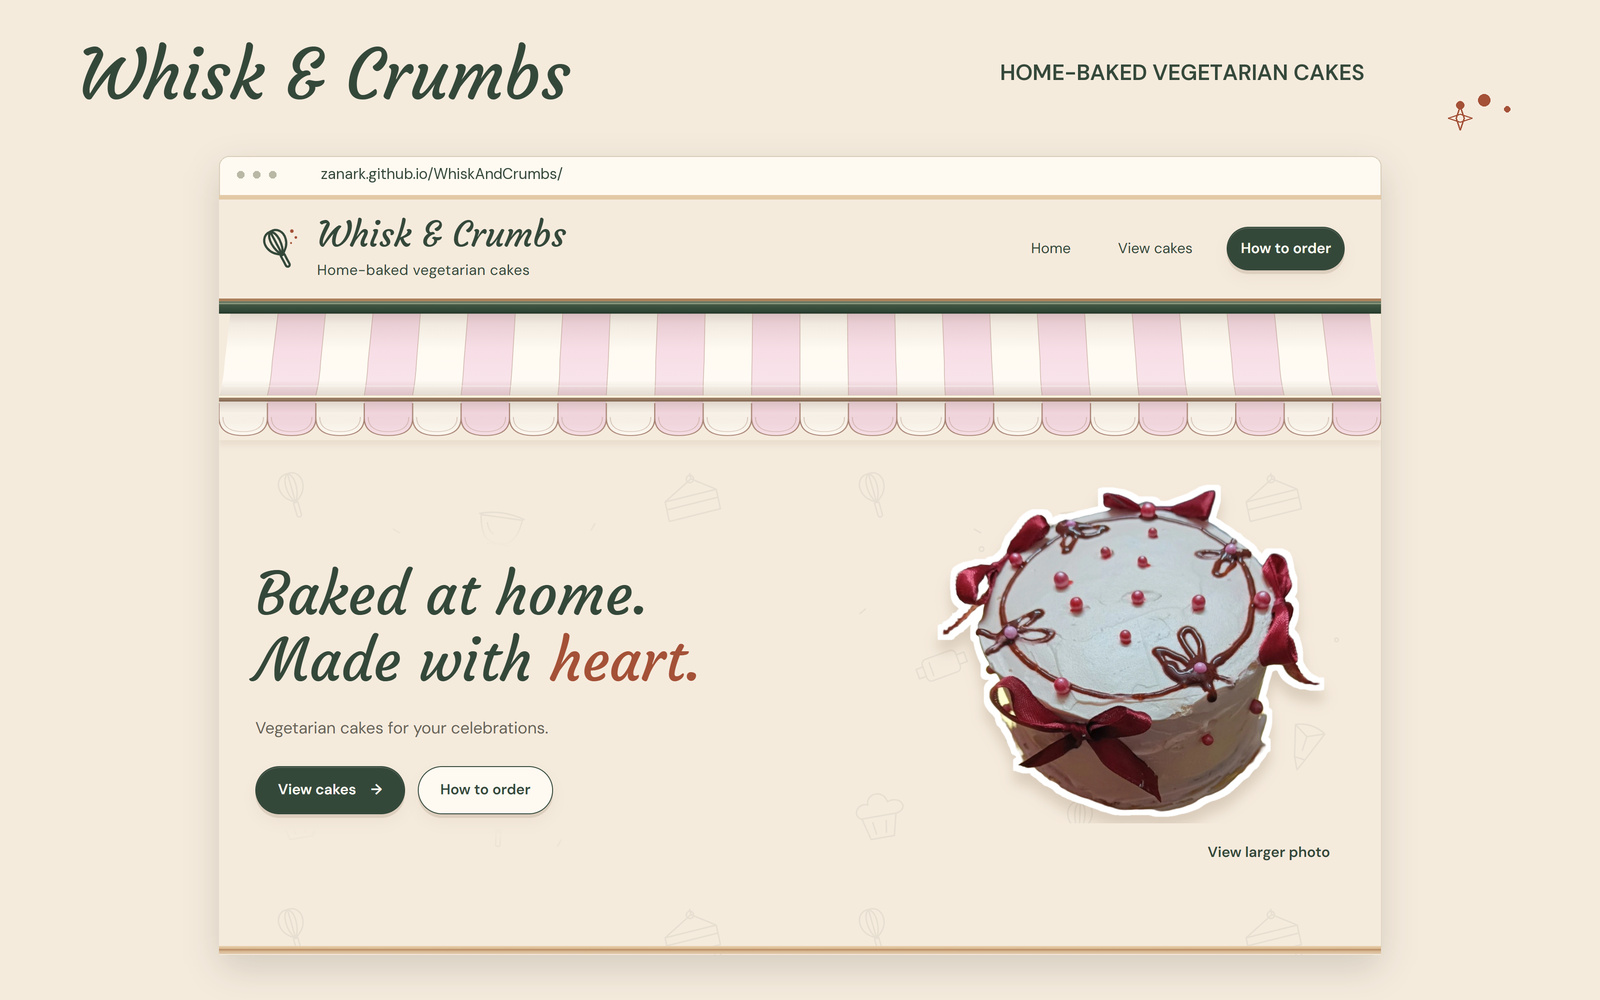
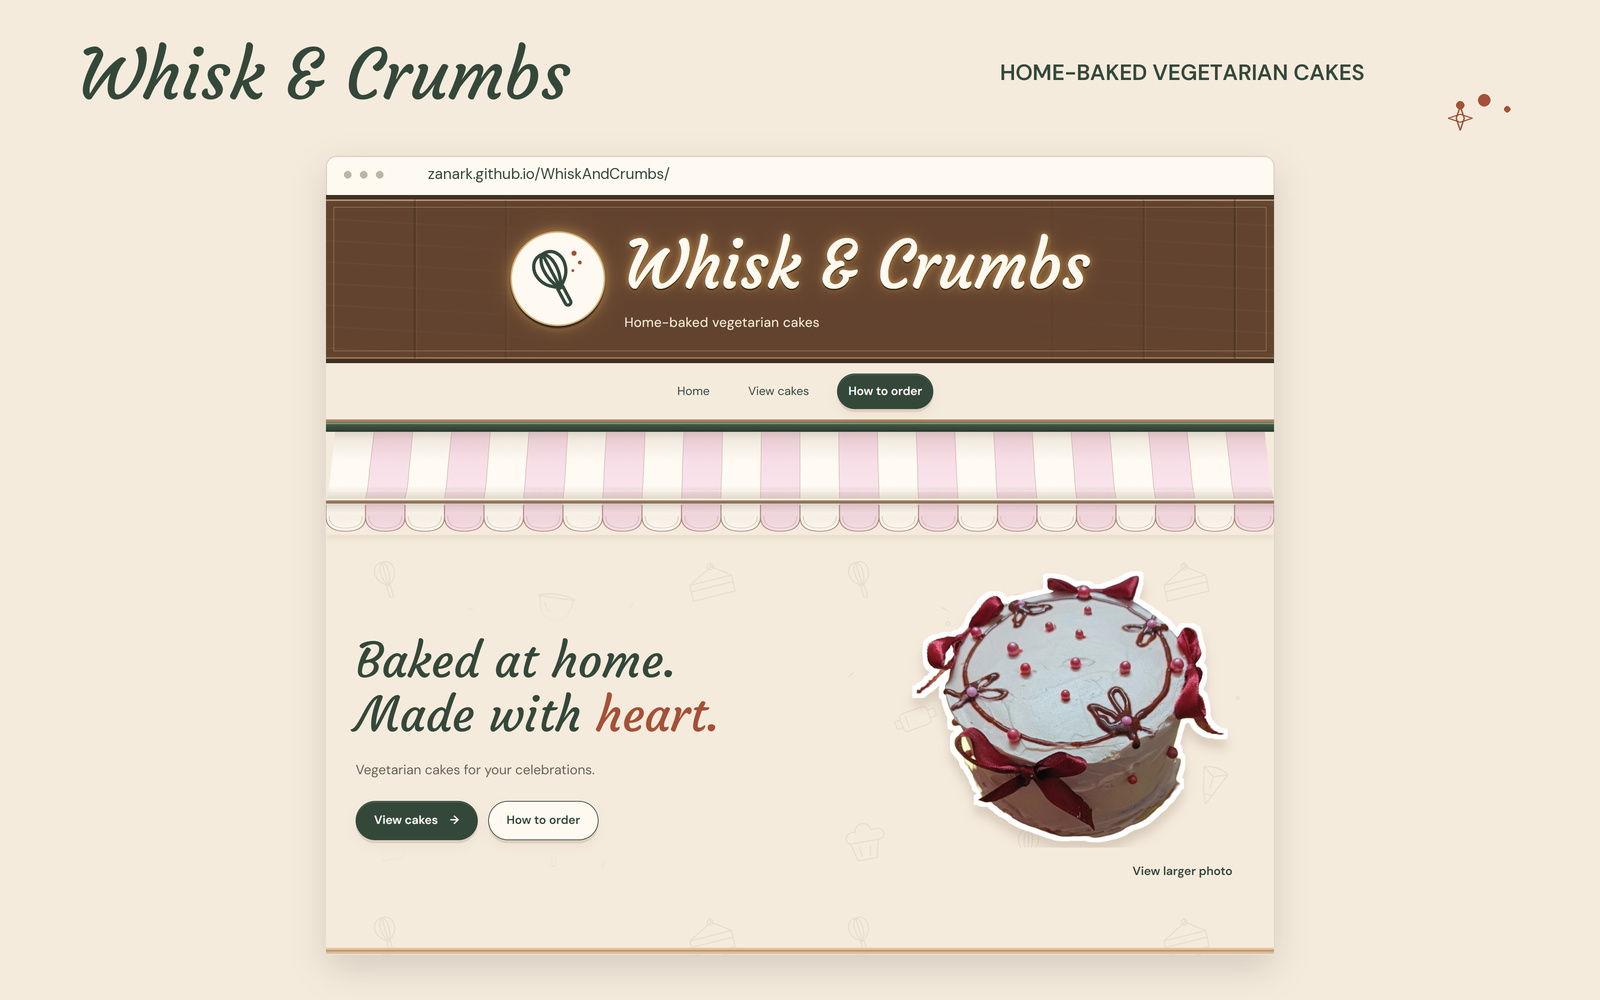
Enlarge the bakery identity on a warm illuminated wooden sign
Keep the original Courgette wordmark and logo, center them on a larger wooden sign, and place navigation beneath. Refresh the welcome README image without changing product media or entrance behavior.

Copilot-Session: 065222f9-e445-4b98-a549-e6948580c174

diff --git a/site/index.html b/site/index.html
@@ -22,14 +22,14 @@
   <link rel="icon" href="assets/favicon.svg" type="image/svg+xml" sizes="any">
   <link rel="apple-touch-icon" href="assets/apple-touch-icon.png" sizes="180x180">
   <link rel="preload" href="assets/fonts/courgette-regular.ttf" as="font" type="font/ttf" crossorigin>
-  <link rel="stylesheet" href="styles.css?v=c4fa39962130">
-  <link rel="stylesheet" href="entrance-shop.css?v=c4fa39962130">
-  <link rel="stylesheet" href="cozy-bakery.css?v=c4fa39962130">
-  <link rel="stylesheet" href="readability.css?v=c4fa39962130">
-  <link rel="modulepreload" href="entrance.mjs?v=c4fa39962130">
-  <link rel="modulepreload" href="bell.mjs?v=c4fa39962130">
-  <link rel="modulepreload" href="notebooks.mjs?v=c4fa39962130">
-  <script type="module" src="main.mjs?v=c4fa39962130"></script>
+  <link rel="stylesheet" href="styles.css?v=2a1e845b0e36">
+  <link rel="stylesheet" href="entrance-shop.css?v=2a1e845b0e36">
+  <link rel="stylesheet" href="cozy-bakery.css?v=2a1e845b0e36">
+  <link rel="stylesheet" href="readability.css?v=2a1e845b0e36">
+  <link rel="modulepreload" href="entrance.mjs?v=2a1e845b0e36">
+  <link rel="modulepreload" href="bell.mjs?v=2a1e845b0e36">
+  <link rel="modulepreload" href="notebooks.mjs?v=2a1e845b0e36">
+  <script type="module" src="main.mjs?v=2a1e845b0e36"></script>
 </head>
 <body>
   <a class="skip-link" href="#main">Skip to cakes and ordering</a>
@@ -40,7 +40,7 @@
         <div class="entrance-sign">
           <img src="assets/whisk-and-crumbs-logo.png" width="380" height="86" alt="">
         </div>
-        <div class="entrance-awning"><img src="assets/bakery-awning.svg?v=c4fa39962130" width="1200" height="180" alt="" decoding="async"></div>
+        <div class="entrance-awning"><img src="assets/bakery-awning.svg?v=2a1e845b0e36" width="1200" height="180" alt="" decoding="async"></div>
         <div class="entrance-doorway">
           <div class="entrance-bell-mount"></div>
           <svg class="entrance-bell" viewBox="0 0 64 68" width="64" height="68" fill="none" focusable="false">
@@ -52,9 +52,9 @@
           </svg>
           <div class="entrance-doorframe">
             <div class="entrance-room">
-              <img class="entrance-room-layer entrance-room-back" src="assets/bakery-room-back.svg?v=c4fa39962130" width="1200" height="720" alt="" decoding="async">
-              <img class="entrance-room-layer entrance-room-middle" src="assets/bakery-room-middle.svg?v=c4fa39962130" width="1200" height="720" alt="" decoding="async">
-              <img class="entrance-room-layer entrance-room-counter" src="assets/bakery-room-counter.svg?v=c4fa39962130" width="1200" height="720" alt="" decoding="async">
+              <img class="entrance-room-layer entrance-room-back" src="assets/bakery-room-back.svg?v=2a1e845b0e36" width="1200" height="720" alt="" decoding="async">
+              <img class="entrance-room-layer entrance-room-middle" src="assets/bakery-room-middle.svg?v=2a1e845b0e36" width="1200" height="720" alt="" decoding="async">
+              <img class="entrance-room-layer entrance-room-counter" src="assets/bakery-room-counter.svg?v=2a1e845b0e36" width="1200" height="720" alt="" decoding="async">
             </div>
             <div class="entrance-door entrance-door-left">
               <div class="entrance-glass"><img src="assets/whisk-and-crumbs-mark.svg" width="82" height="82" alt=""></div>
@@ -77,19 +77,21 @@
   </div>
   <noscript><style>.bakery-entrance { display: none !important; }</style></noscript>
   <header class="site-header">
-    <div class="container header-inner">
-      <a class="brand" href="#home" aria-label="Whisk &amp; Crumbs - home">
-        <img src="assets/whisk-and-crumbs-mark.svg" width="56" height="56" alt="">
-        <span><span class="wordmark">Whisk &amp; Crumbs</span><span class="brand-descriptor">Home-baked vegetarian cakes</span></span>
-      </a>
-      <nav id="site-nav" aria-label="Main navigation">
-        <a href="#home">Home</a>
-        <a href="#cakes">View cakes</a>
-        <a class="button nav-cta" href="#order">How to order</a>
-      </nav>
+    <div class="shop-sign">
+      <div class="container header-inner">
+        <a class="brand" href="#home" aria-label="Whisk &amp; Crumbs - home">
+          <img src="assets/whisk-and-crumbs-mark.svg" width="128" height="128" alt="">
+          <span><span class="wordmark">Whisk &amp; Crumbs</span><span class="brand-descriptor">Home-baked vegetarian cakes</span></span>
+        </a>
+      </div>
     </div>
+    <nav id="site-nav" class="container" aria-label="Main navigation">
+      <a href="#home">Home</a>
+      <a href="#cakes">View cakes</a>
+      <a class="button nav-cta" href="#order">How to order</a>
+    </nav>
   </header>
-  <div class="site-awning" aria-hidden="true"><img src="assets/bakery-awning.svg?v=c4fa39962130" width="1200" height="180" alt="" decoding="async"></div>
+  <div class="site-awning" aria-hidden="true"><img src="assets/bakery-awning.svg?v=2a1e845b0e36" width="1200" height="180" alt="" decoding="async"></div>
 
   <main id="main" tabindex="-1">
     <section class="hero-section" id="home" aria-labelledby="hero-title">
@@ -647,7 +649,7 @@
         </div>
       </div>
     </section>
-    <div class="bakery-shelf" aria-hidden="true"><img src="assets/bakery-shelf.svg?v=c4fa39962130" width="960" height="120" alt="" loading="lazy" decoding="async"></div>
+    <div class="bakery-shelf" aria-hidden="true"><img src="assets/bakery-shelf.svg?v=2a1e845b0e36" width="960" height="120" alt="" loading="lazy" decoding="async"></div>
   </main>
 
   <footer class="container site-footer">

diff --git a/site/cozy-bakery.css b/site/cozy-bakery.css
@@ -1,6 +1,44 @@
-.site-header { border-bottom: 3px solid #ab805b; box-shadow: inset 0 5px 0 #e3c9a6; }
-.header-inner { padding-top: 20px; }
-.brand { padding-block: 3px; }
+.site-header { border-bottom: 3px solid #ab805b; box-shadow: none; }
+.shop-sign {
+  position: relative;
+  isolation: isolate;
+  color: var(--paper);
+  background-color: #62432f;
+  border-block: 6px solid #3e3025;
+  box-shadow: inset 0 2px 0 #bc9670, inset 0 -2px 0 #a17a55;
+}
+.shop-sign::before {
+  content: "";
+  position: absolute;
+  inset: 0;
+  z-index: -1;
+  background:
+    repeating-linear-gradient(90deg, transparent 0 118px, rgb(30 19 12 / 30%) 119px 121px, rgb(255 228 184 / 10%) 122px 123px),
+    repeating-linear-gradient(3deg, transparent 0 13px, rgb(255 226 182 / 5%) 14px, transparent 16px 29px);
+  mask-image: linear-gradient(90deg, #000, transparent 28% 72%, #000);
+  pointer-events: none;
+}
+.shop-sign::after { content: ""; position: absolute; inset: 10px; border: 1px solid rgb(225 188 132 / 36%); pointer-events: none; }
+.shop-sign .header-inner { justify-content: center; padding-block: 28px; }
+.shop-sign .brand { grid-template-columns: 128px minmax(0, 1fr); gap: 26px; padding: 8px; }
+.shop-sign .brand > img {
+  width: 128px;
+  height: 128px;
+  padding: 12px;
+  border: 2px solid #d9b47c;
+  border-radius: 50%;
+  background: var(--paper);
+  box-shadow: 0 3px 2px #2e2017, 0 0 14px rgb(255 205 116 / 45%), 0 0 34px rgb(255 184 74 / 20%);
+}
+.shop-sign .wordmark {
+  color: var(--paper);
+  font-size: 5.5rem;
+  line-height: 1.2;
+  text-shadow: 0 1px 0 #fff1d1, 0 3px 1px #2e2017, 0 0 9px rgb(255 205 116 / 55%), 0 0 24px rgb(255 184 74 / 35%);
+}
+.shop-sign .brand-descriptor { color: var(--cream); font-size: 1.125rem; margin-top: 12px; }
+.shop-sign .brand:focus-visible { outline-color: var(--paper); outline-offset: 6px; }
+.site-header #site-nav { width: min(1200px, calc(100% - 40px)); margin-inline: auto; padding-block: 14px; justify-content: center; gap: 12px 24px; }
 #site-nav > a:not(.button) { text-decoration-color: #ba8d67; text-underline-offset: 7px; }
 .site-awning { filter: drop-shadow(0 6px 3px rgb(118 84 61 / 9%)); }
 
@@ -80,11 +118,17 @@
 .site-footer { border-top: 1px dashed #ccb797; margin-top: 8px; }
 
 @media (max-width: 900px) {
+  .shop-sign .wordmark { font-size: 3.8rem; }
   .hero { gap: 22px; }
   .category-notebooks { padding-inline: 18px; }
 }
 @media (max-width: 600px) {
-  .header-inner { padding-top: 18px; }
+  .shop-sign .header-inner { padding-block: 22px; }
+  .shop-sign .brand { display: flex; flex-direction: column; gap: 14px; text-align: center; padding: 8px 0; }
+  .shop-sign .brand > img { width: 96px; height: 96px; padding: 10px; }
+  .shop-sign .wordmark { font-size: 2.8rem; }
+  .shop-sign .brand-descriptor { margin-top: 10px; }
+  .site-header #site-nav { gap: 10px; }
   .hero { padding-block: 28px 42px; }
   .hero-art { padding: 0 4px 8px; }
   .category-notebooks { padding: 28px 14px 34px; }
@@ -93,10 +137,19 @@
   .bakery-shelf { margin-top: 12px; }
 }
 @media (forced-colors: active) {
+  .shop-sign { background: Canvas; color: CanvasText; border-color: CanvasText; box-shadow: none; }
+  .shop-sign::before, .shop-sign::after { display: none; }
+  .shop-sign .wordmark, .shop-sign .brand-descriptor { color: CanvasText; text-shadow: none; }
+  .shop-sign .brand > img { box-shadow: none; }
+  .shop-sign .brand:focus-visible { outline-color: Highlight; }
   .bakery-shelf, .hero-section::after, .category-notebooks::before, .category-notebooks::after, .order-action::after { display: none; }
   .category-notebooks { border: 0; box-shadow: none; }
 }
 @media print {
+  .shop-sign { background: var(--cream); color: var(--green); border-color: var(--brown); box-shadow: none; }
+  .shop-sign::before, .shop-sign::after { display: none; }
+  .shop-sign .wordmark, .shop-sign .brand-descriptor { color: var(--green); text-shadow: none; }
+  .shop-sign .brand > img { box-shadow: none; }
   .bakery-shelf, .hero-section::after, .category-notebooks::before, .category-notebooks::after, .order-action::after { display: none; }
   .site-header, .story-section, .order-section, .recipe-note { box-shadow: none; }
 }

diff --git a/ABOUT.md b/ABOUT.md
@@ -27,6 +27,11 @@ A visible **Skip entrance** link always offers a direct route in.
 The website keeps a simple order: **Home, Our little story, Cakes we've made,
 How to order**. Navigation stays visible on mobile.
 
+At the top, the original whisk mark and Courgette shop name form a larger,
+centered wooden sign with a warm, steady backlit glow. The three navigation
+links sit underneath on cream, above the full-width canopy. The glow does not
+flash or animate; the original font and logo artwork are retained.
+
 The real hero cake sits directly on the cream canvas, without an illustrated
 window behind it. Small timber edges, a layered-paper recipe note,
 a quiet linen surround beneath the notebooks and

diff --git a/README.md b/README.md
@@ -1,4 +1,4 @@
-[![Whisk & Crumbs: an edge-to-edge striped shop canopy above the real ribbon-and-pearl cake on cream.](site/assets/showcase/01-welcome.jpg)](https://zanark.github.io/WhiskAndCrumbs/)
+[![Whisk & Crumbs: a large wooden shop sign with warm backlit lettering, navigation beneath and a full-width striped canopy.](site/assets/showcase/01-welcome.jpg)](https://zanark.github.io/WhiskAndCrumbs/)
 
 [![Step inside: a sloped fabric canopy and warm cake displays behind transparent bakery doors.](site/assets/showcase/02-bakery-entrance.jpg)](https://zanark.github.io/WhiskAndCrumbs/)
 
